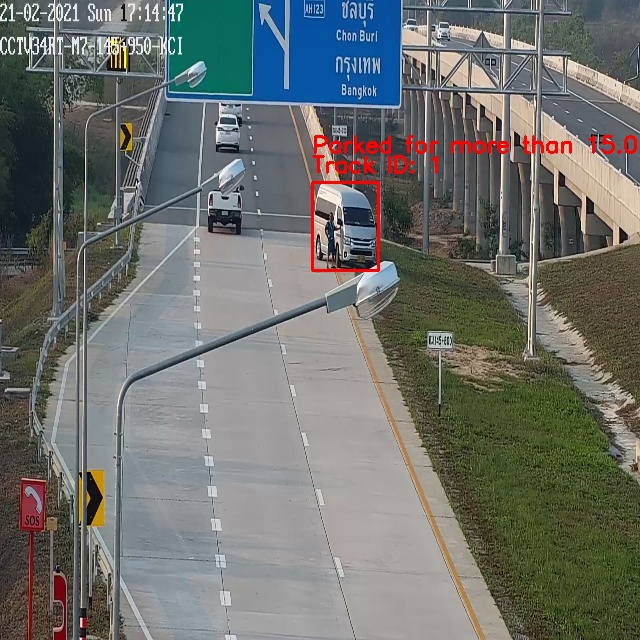
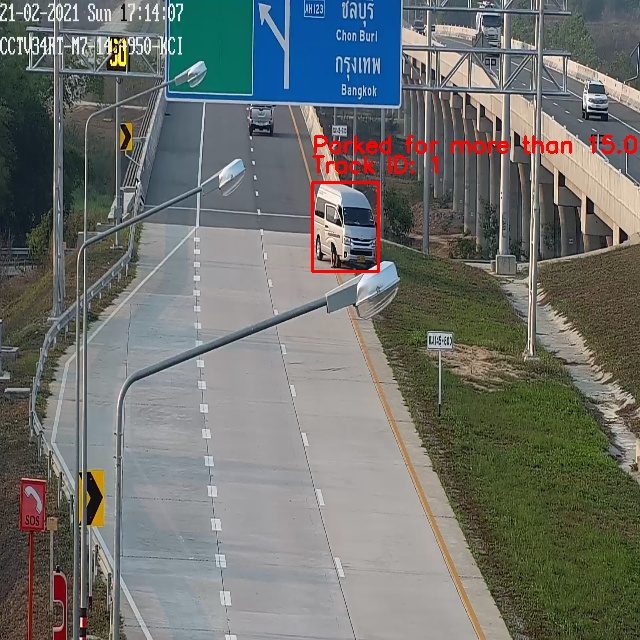
avoild duplicate alert

diff --git a/src/parked_detector.py b/src/parked_detector.py
@@ -18,7 +18,8 @@ class ParkedDetector:
         self.track_ids_time = defaultdict(list)
         self.time_limit = time_limit_sec * 60
         self.dist_sencitivity = dist_sencitivity
-    
+        self.alerted = defaultdict(bool)
+
     def __position_process(self, track_id, cx, cy):
         if track_id not in self.positions:
             self.positions[track_id] = []
@@ -57,15 +58,17 @@ class ParkedDetector:
             cy = (y1 + y2) // 2
 
             self.__position_process(track_id, cx, cy)
-            
+
             parked = self.__parked_vehicle(track_id)
             
-            if parked:
+            if parked and not self.alerted[track_id]:
                 logger.info(f"Track ID: {track_id} is parked for more than {self.time_limit} minutes.")
                 cv2.rectangle(frame, (x1, y1), (x2, y2), (0, 0, 255), 2)
                 cv2.putText(frame, f"Track ID: {track_id}", (x1, y1 - 10), cv2.FONT_HERSHEY_SIMPLEX, 0.75, (0, 0, 255), 2)
                 cv2.putText(frame, f"Parked for more than {self.time_limit} minutes", (x1, y1 - 30), cv2.FONT_HERSHEY_SIMPLEX, 0.75, (0, 0, 255), 2)
                 cv2.imwrite(f"assets/parked_vehicle_pic/cam_{cam_id}_parked_vehicle_{track_id}.jpg", frame)
+                
+                self.alerted[track_id] = True
             
             # Remove the first element if the list is greater than 10
             if len(self.positions[track_id]) > 10:

diff --git a/main.py b/main.py
@@ -1,8 +1,11 @@
-from src.yolov5_inference import VehicleDetector
 import dotenv
 import os
 import warnings
 import logging
+from src.yolov5_inference import VehicleDetector
+
+warnings.simplefilter("ignore", category=FutureWarning)
+dotenv.load_dotenv()
 
 # Set up logging configuration
 def setup_logging(level=logging.INFO):
@@ -11,9 +14,6 @@ def setup_logging(level=logging.INFO):
     return logger
 
 logger = setup_logging()  # Default to INFO level 
-
-warnings.simplefilter("ignore", category=FutureWarning)
-dotenv.load_dotenv()
 
 MODEL = str(os.getenv("MODEL", "models/yolov5m.torchscript")) 
 CONF = float(os.getenv("CONF", 0.5))
@@ -34,12 +34,3 @@ if __name__ == "__main__":
     detector.define_classes(classes=CLASSES)
     detector.init_parked_detector(dist_sencitivity=5, time_limit_sec=0.25)
     detector.run(show=SHOW, tracking=TRACKING, debug=DEBUG)  # Set debug=True to show detailed logs
-    
-    
-    
-    # สำหรับดูรอจอดนิ่งๆ ให้จับเวลารถที่ไม่มี tail
-    # if len(tail) <= 5:
-    #    print("No tail")
-    #    จับเวลา
-    #    ถ้าเวลาที่จับได้มากกว่า 5 นาที
-    #    ให้ส่งข้อมูลไปยัง API
